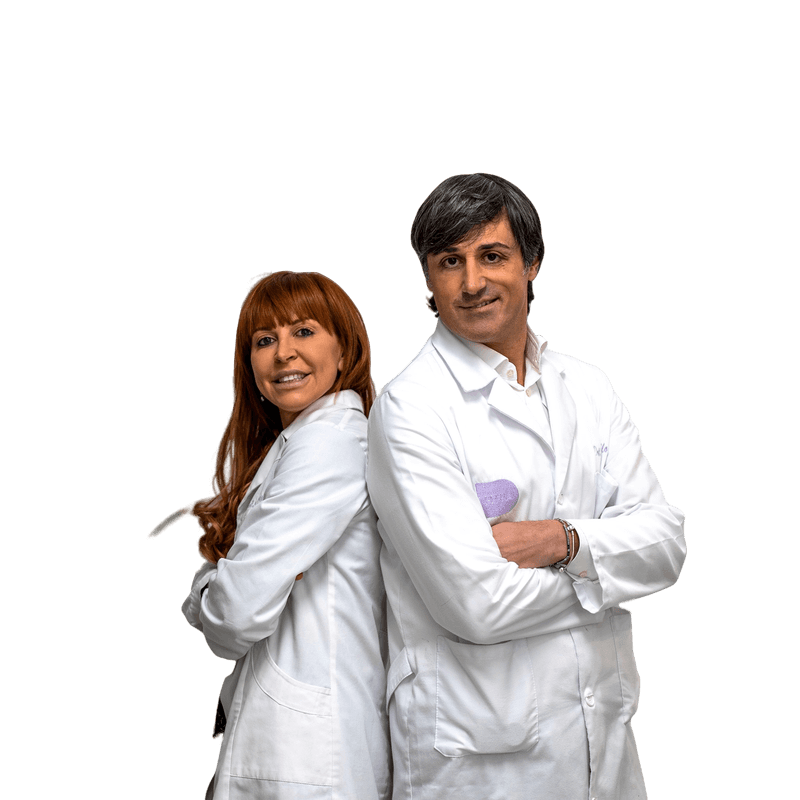
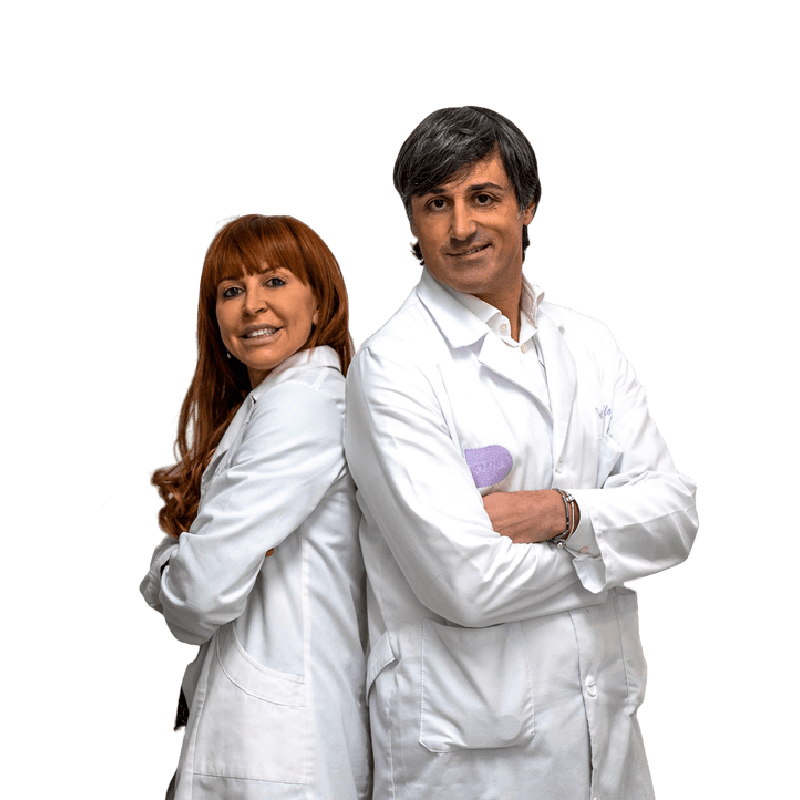
hero changes

Changed region(s): [[0.1562, 0.125, 0.875, 1.0]]

diff --git a/index.html b/index.html
@@ -95,8 +95,15 @@
   <!-- ======= Hero Section ======= -->
   <section id="hero" class="d-flex align-items-center">
     <div class="container">
-      <h1>Studio medico associato<br> Pefra</h1>
-      <h2>Dott. Gianluca Petrillo & Dott.sa Sabrina Francione</h2>
+      <div class="row" style="align-items: center;">
+        <div class="col">
+          <h1  style="color: white;">Studio medico associato<br> Pefra</h1>
+          <h2 style="color: white;">Dott. Gianluca Petrillo & Dott.sa Sabrina Francione</h2>
+        </div>
+        <div class="col">
+          <img src="assets/img/entrambi.png" style="transform: scale(1.25);position: relative;top: 65px;">
+        </div>
+    </div>
       <!-- <a href="#about" class="btn-get-started scrollto">Get Started</a> -->
     </div>
   </section><!-- End Hero -->
@@ -137,7 +144,7 @@
 
         <div class="row">
           <div class="col-lg-3 col-md-6 align-items-stretch mt-md-0">
-            <div class="icon-box" style="background-image: url(https://cdn.discordapp.com/attachments/948656546865356892/1029086194631446539/box.png);
+            <div class="icon-box" style="background-image: url(assets/img/dermatologia.png);
             background-size: cover;">
               <h4><a href="">Dermatologia</a></h4>
             </div>
@@ -175,8 +182,8 @@
     <section id="about" class="about">
       <div class="container-fluid">
 
-        <div class="row" style="place-content:flex-end; margin-bottom: 50px;" data-aos="slide-right" data-aos-duration="1000">
-          <div class="col-xl-8 col-lg-6 icon-boxes d-flex flex-column align-items-stretch justify-content-center py-5 px-lg-5">
+        <div class="row" style="place-content:flex-end; margin-bottom: 50px;" >
+          <div class="col-xl-8 col-lg-6 icon-boxes d-flex flex-column align-items-stretch justify-content-center py-5 px-lg-5" data-aos="slide-right" data-aos-duration="1000">
             <h3>Chi è Gianluca Petrillo? </h3>
             <p>Il Dott. Gianluca Petrillo si avvale di un'esperienza decennale conseguita attraverso la formazione e il raggiungimento della Specializzazione in Dermatologia e Venereologia con il massimo dei voti con lode.
               </p>
@@ -200,12 +207,12 @@
             </div>
 
           </div>
-          <div class="col-xl-4 col-lg-6 video-box1 d-flex justify-content-center align-items-start position-relative" data-aos="slide-right" data-aos-duration="1000">
+          <div class="col-xl-4 col-lg-6 video-box1 d-flex justify-content-center align-items-start position-relative" data-aos="slide-left" data-aos-duration="1000">
             <img href="assets/img/petrillo_bk.png" class="mb-4"></img>
           </div> 
         </div>
         <div class="row">
-          <div class="col-xl-4 col-lg-6 video-box d-flex justify-content-center align-items-stretch position-relative" data-aos="slide-left" data-aos-duration="1000">
+          <div class="col-xl-4 col-lg-6 video-box d-flex justify-content-center align-items-stretch position-relative" data-aos="slide-right" data-aos-duration="1000">
             <img href="assets/img/francione_bk.png" class="mb-4"></img>
           </div> 
           <div class="col-xl-8 col-lg-6 icon-boxes d-flex flex-column align-items-stretch justify-content-center py-5 px-lg-5" data-aos="slide-left" data-aos-duration="1000">
@@ -544,46 +551,39 @@
         <div class="row">
 
           <div class="col-lg-3 col-md-6 footer-contact">
-            <h3>Medilab</h3>
+            <h3>Studio medico associato PEFRA</h3>
             <p>
-              A108 Adam Street <br>
-              New York, NY 535022<br>
-              United States <br><br>
-              <strong>Phone:</strong> +1 5589 55488 55<br>
-              <strong>Email:</strong> info@example.com<br>
+              Via Roma 36 <br>
+              Pompei, NA 80045<br>
+              Italia <br><br>
+              <strong>Telefono:</strong> +39 081 197 160 75<br>
+              <strong>Email:</strong> postmaster@studiomedicopefra.it<br>
             </p>
           </div>
 
           <div class="col-lg-2 col-md-6 footer-links">
-            <h4>Useful Links</h4>
+            <h4>Link Utili</h4>
             <ul>
               <li><i class="bx bx-chevron-right"></i> <a href="#">Home</a></li>
-              <li><i class="bx bx-chevron-right"></i> <a href="#">About us</a></li>
-              <li><i class="bx bx-chevron-right"></i> <a href="#">Services</a></li>
-              <li><i class="bx bx-chevron-right"></i> <a href="#">Terms of service</a></li>
-              <li><i class="bx bx-chevron-right"></i> <a href="#">Privacy policy</a></li>
+              <li><i class="bx bx-chevron-right"></i> <a href="#">About</a></li>
+              <li><i class="bx bx-chevron-right"></i> <a href="#">Servizi</a></li>
+              <li><i class="bx bx-chevron-right"></i> <a href="#">Termini di servizio</a></li>
             </ul>
           </div>
 
           <div class="col-lg-3 col-md-6 footer-links">
-            <h4>Our Services</h4>
+            <h4>I nostri servizi</h4>
             <ul>
-              <li><i class="bx bx-chevron-right"></i> <a href="#">Web Design</a></li>
-              <li><i class="bx bx-chevron-right"></i> <a href="#">Web Development</a></li>
-              <li><i class="bx bx-chevron-right"></i> <a href="#">Product Management</a></li>
-              <li><i class="bx bx-chevron-right"></i> <a href="#">Marketing</a></li>
-              <li><i class="bx bx-chevron-right"></i> <a href="#">Graphic Design</a></li>
+              <li><i class="bx bx-chevron-right"></i> <a href="#">Dermatologia</a></li>
+              <li><i class="bx bx-chevron-right"></i> <a href="#">Laser Terapia</a></li>
+              <li><i class="bx bx-chevron-right"></i> <a href="#">Dermochirurgia</a></li>
+              <li><i class="bx bx-chevron-right"></i> <a href="#">Medicina estetica</a></li>
             </ul>
           </div>
 
-          <div class="col-lg-4 col-md-6 footer-newsletter">
-            <h4>Join Our Newsletter</h4>
-            <p>Tamen quem nulla quae legam multos aute sint culpa legam noster magna</p>
-            <form action="" method="post">
-              <input type="email" name="email"><input type="submit" value="Subscribe">
-            </form>
+          <div class="col-lg-4 col-md-6 footer-links">
+            <img src="assets/top.png" alt="" class="img" style="max-width: 70%;">
           </div>
-
         </div>
       </div>
     </div>
@@ -592,15 +592,13 @@
 
       <div class="me-md-auto text-center text-md-start">
         <div class="copyright">
-          &copy; Copyright <strong><span>Medilab</span></strong>. All Rights Reserved
+          Made with <strong><span>&#10084;</span></strong> by iLinx
         </div>
         
       </div>
       <div class="social-links text-center text-md-right pt-3 pt-md-0">
-        <a href="#" class="twitter"><i class="bx bxl-twitter"></i></a>
         <a href="#" class="facebook"><i class="bx bxl-facebook"></i></a>
         <a href="#" class="instagram"><i class="bx bxl-instagram"></i></a>
-        <a href="#" class="google-plus"><i class="bx bxl-skype"></i></a>
         <a href="#" class="linkedin"><i class="bx bxl-linkedin"></i></a>
       </div>
     </div>

diff --git a/assets/css/style.css b/assets/css/style.css
@@ -473,7 +473,8 @@ h6 {
 #hero {
   width: 100%;
   height: 90vh;
-  background: url("../gradiente_background.png") top center;
+  background: rgb(0,114,200);
+background: linear-gradient(90deg, rgba(0,114,200,1) 0%, rgba(149,93,219,1) 72%);
   background-size: cover;
   margin-bottom: -200px;
 }
@@ -669,8 +670,8 @@ section {
 --------------------------------------------------------------*/
 .why-us .content {
   padding: 30px;
-  background: #1977cc;
-  border-radius: 4px;
+  background: #955ddb;
+  border-radius: 40px;
   color: #fff;
 }
 
